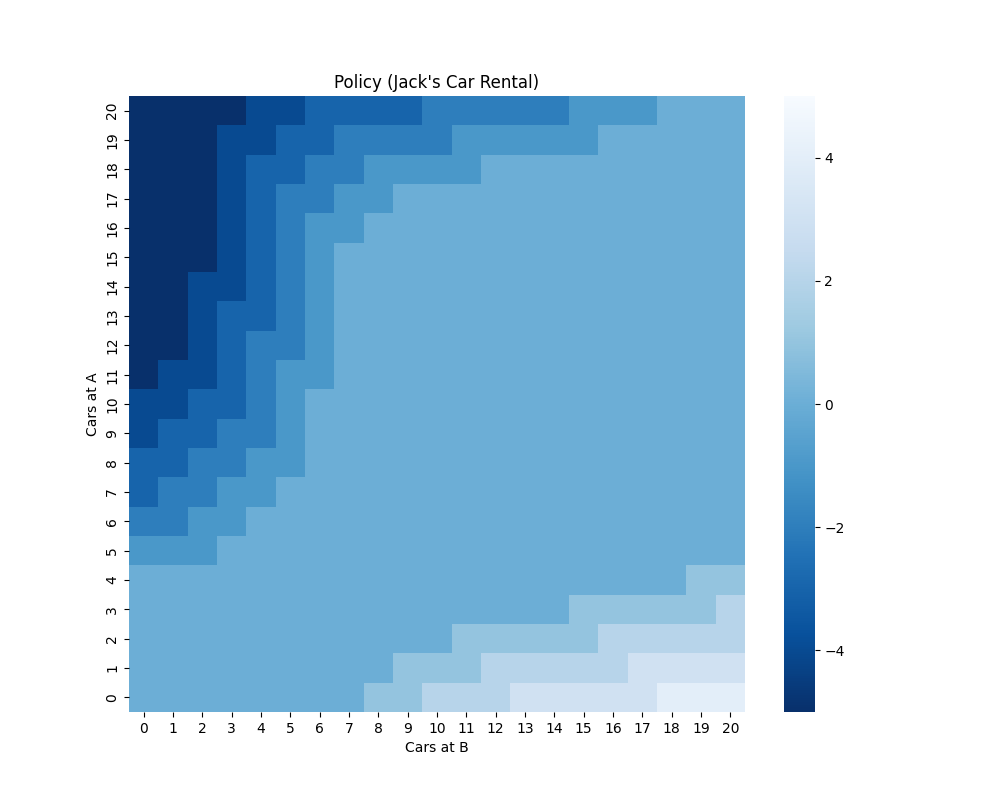
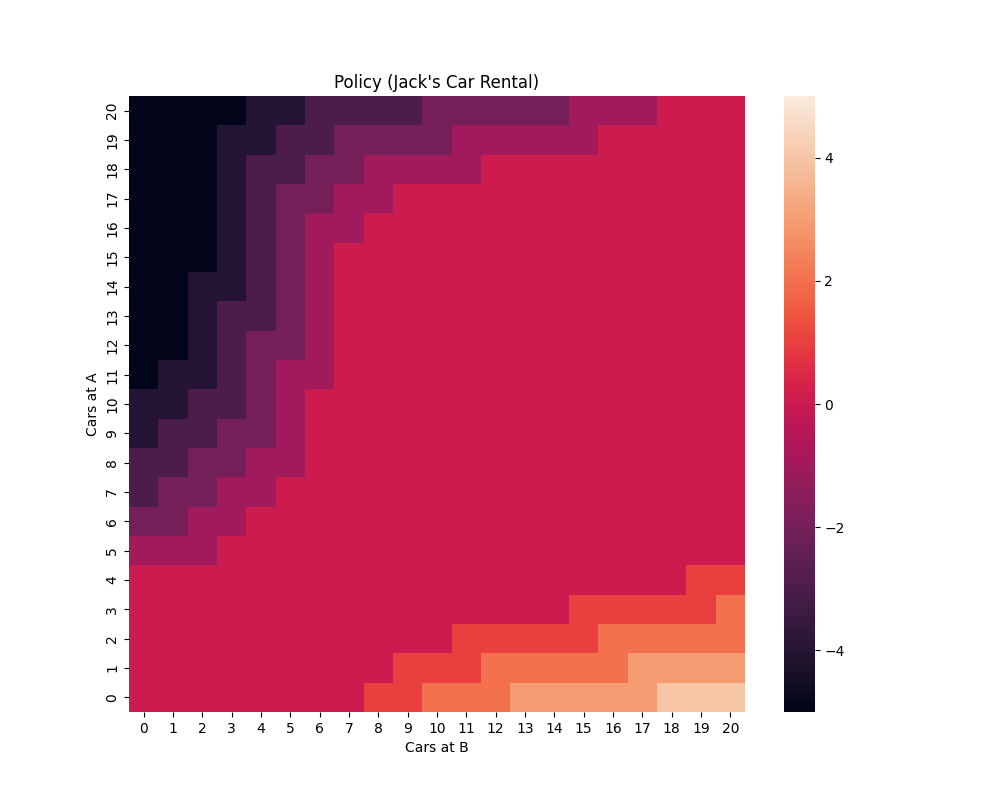
update results

diff --git a/results.py b/results.py
@@ -19,7 +19,7 @@ df_policy = pd.DataFrame(
     columns=list(range(STATESPACE[0]))
 )
 plt.figure(figsize=(10, 8))
-sns.heatmap(data=df_policy, vmin=-5, vmax=5, square=True, cmap="Blues_r")
+sns.heatmap(data=df_policy, vmin=-5, vmax=5, square=True)
 plt.title('Policy (Jack\'s Car Rental)')
 plt.xlabel('Cars at B')
 plt.ylabel('Cars at A')
